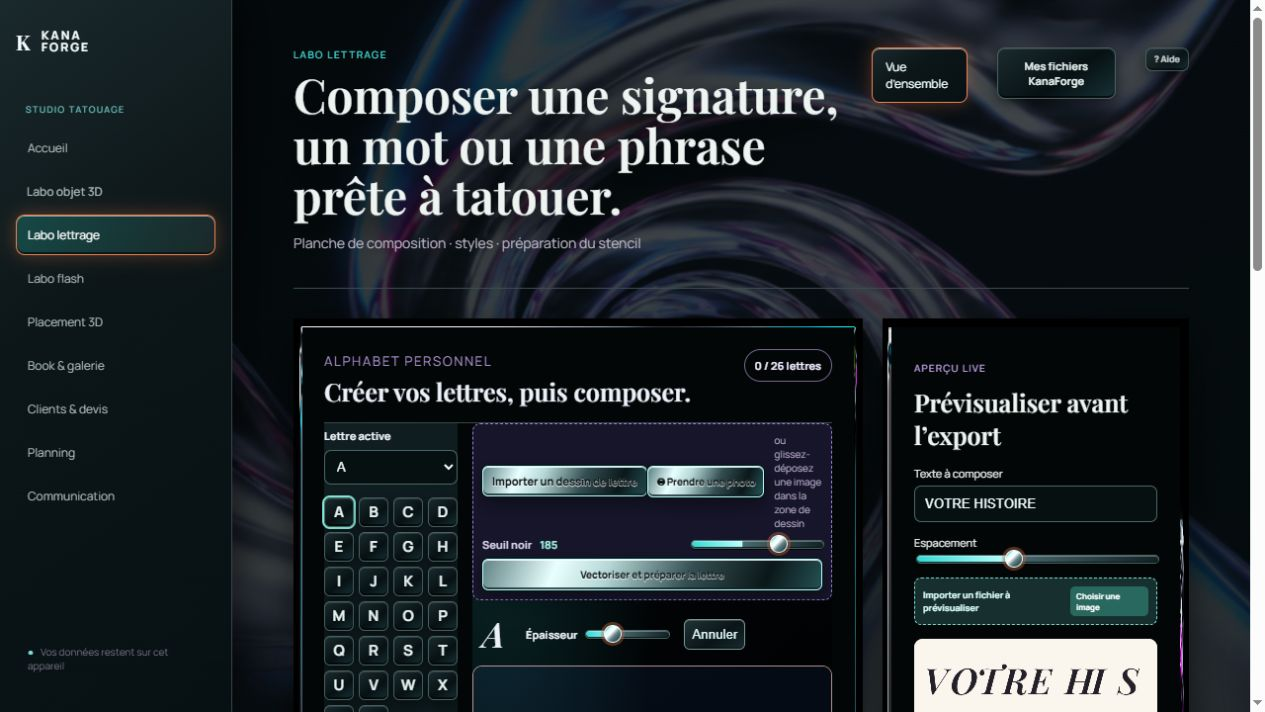
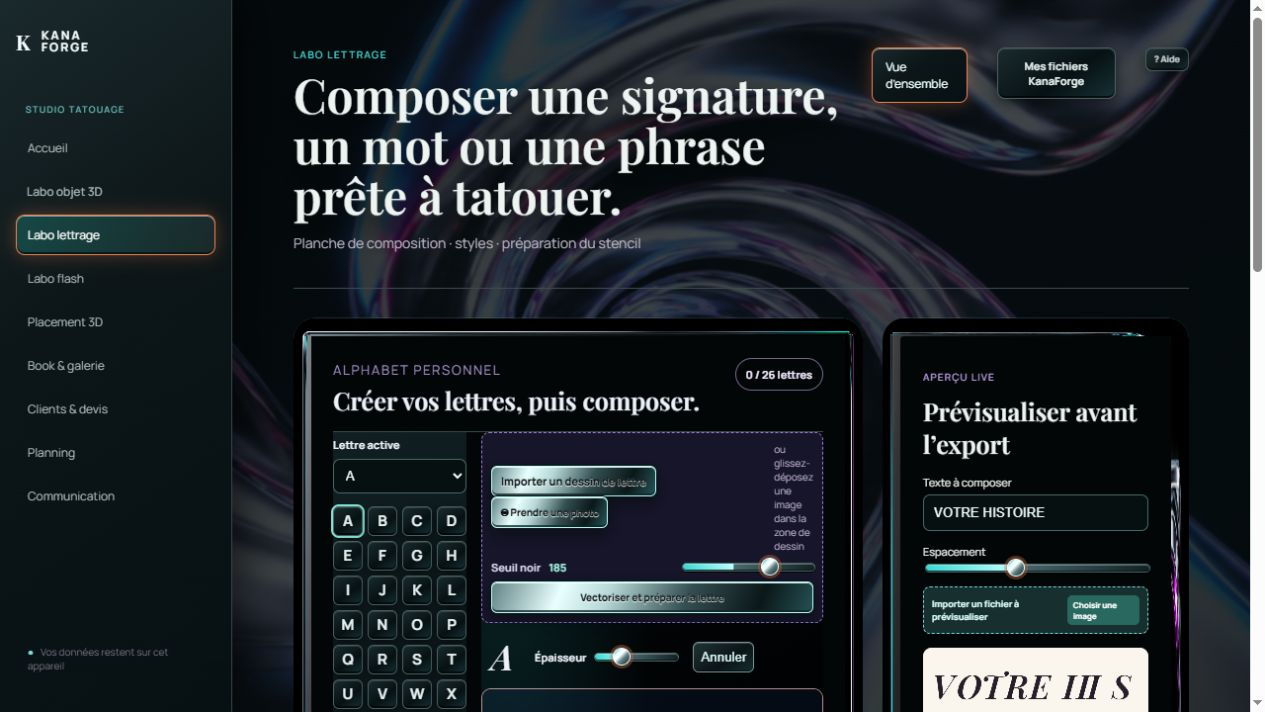
Strengthen liquid chrome window frames

Changed region(s): [[0.2158, 0.4326, 0.9557, 1.0], [0.8632, 0.4635, 0.8941, 0.4944]]

diff --git a/src/hard-metal-theme.css b/src/hard-metal-theme.css
@@ -185,12 +185,16 @@ body:has(#object3d-app):before{background-image:linear-gradient(132deg,#04090aa8
   background-image:none!important;
   /* L'image est utilisée comme un véritable bord neuf-tranches : sa coulée
      reste sur le pourtour et ne passe jamais devant les contrôles. */
-  border:9px solid transparent!important;
+  border:18px solid transparent!important;
   border-image-source:var(--liquid-window-frame)!important;
-  border-image-slice:145!important;
-  border-image-width:9px!important;
+  border-image-slice:180!important;
+  border-image-width:18px!important;
   border-image-repeat:stretch!important;
-  box-shadow:0 18px 38px #000a!important;
+  border-radius:22px!important;
+  background-clip:padding-box!important;
+  clip-path:inset(0 round 22px);
+  overflow:hidden!important;
+  box-shadow:0 20px 42px #000c,0 0 0 1px #7cffff66!important;
 }
 
 /* Atelier : une grande coulée pour les espaces de création, un rail pour les

diff --git a/design-qa.md b/design-qa.md
@@ -14,7 +14,7 @@
 **Required fidelity surfaces**
 
 - Fonts and typography: unchanged from the existing application; the border treatment does not alter readable text, weights, wrapping, or UI hierarchy.
-- Spacing and layout rhythm: the 9 px border is contained in each existing window box. Panels retain their grid positions and controls remain fully visible.
+- Spacing and layout rhythm: the 18 px border is contained in each existing window box. A rounded clipping mask removes the rectangular black spill while panels retain their grid positions and controls remain fully visible.
 - Colors and visual tokens: cyan, polished silver, magenta, and black are sampled directly from the selected visual asset. Existing atelier accent colors continue to coordinate the surrounding controls.
 - Image quality and asset fidelity: generated raster assets are used directly as `border-image` sources; no CSS illustration substitutes for the selected liquid-metal frame. Screenshot inspection shows crisp chrome rails at both wide and narrow panel sizes.
 - Copy and content: unchanged.
@@ -34,6 +34,7 @@
 
 - [x] Add selected liquid-chrome frame and two compatible variations as application assets.
 - [x] Apply role-based frame variants to Studio and Object 3D windows.
+- [x] Clip each frame to its rounded contour so no black rectangular corner can extend past the chrome.
 - [x] Preserve reduced-motion behavior and content readability.
 - [x] Build and visually verify the two principal interfaces.
 
